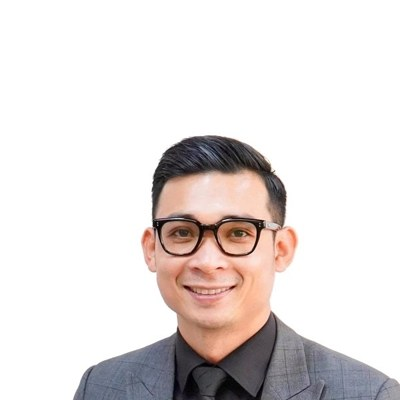
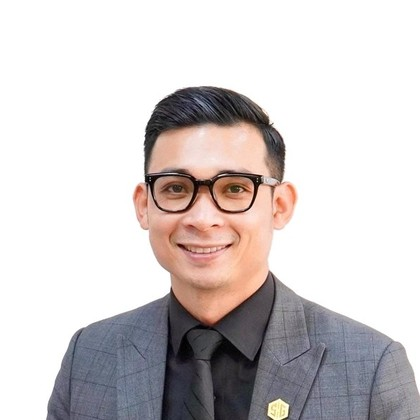
Add files via upload

diff --git a/index.html b/index.html
@@ -15,7 +15,7 @@ main{position:relative;z-index:1;width:100%;max-width:440px;text-align:center}
 .av{width:124px;height:124px;margin:0 auto 18px;border-radius:50%;padding:3px;background:conic-gradient(from var(--a,0deg),var(--teal),var(--accent),#ffb067,var(--teal));animation:sp 5s linear infinite}
 @property --a{syntax:'<angle>';initial-value:0deg;inherits:false}
 @keyframes sp{to{--a:360deg}}
-.av img{width:100%;height:100%;border-radius:50%;object-fit:cover;object-position:50% 20%;display:block;border:3px solid var(--bg)}
+.av img{width:100%;height:100%;border-radius:50%;object-fit:cover;object-position:50% 50%;display:block;border:3px solid var(--bg)}
 h1{font-size:28px;font-weight:800;letter-spacing:-.02em;line-height:1.25}
 .role{margin-top:6px;font-size:14.5px;color:var(--mute)}
 .role b{color:var(--accent);font-weight:600}
